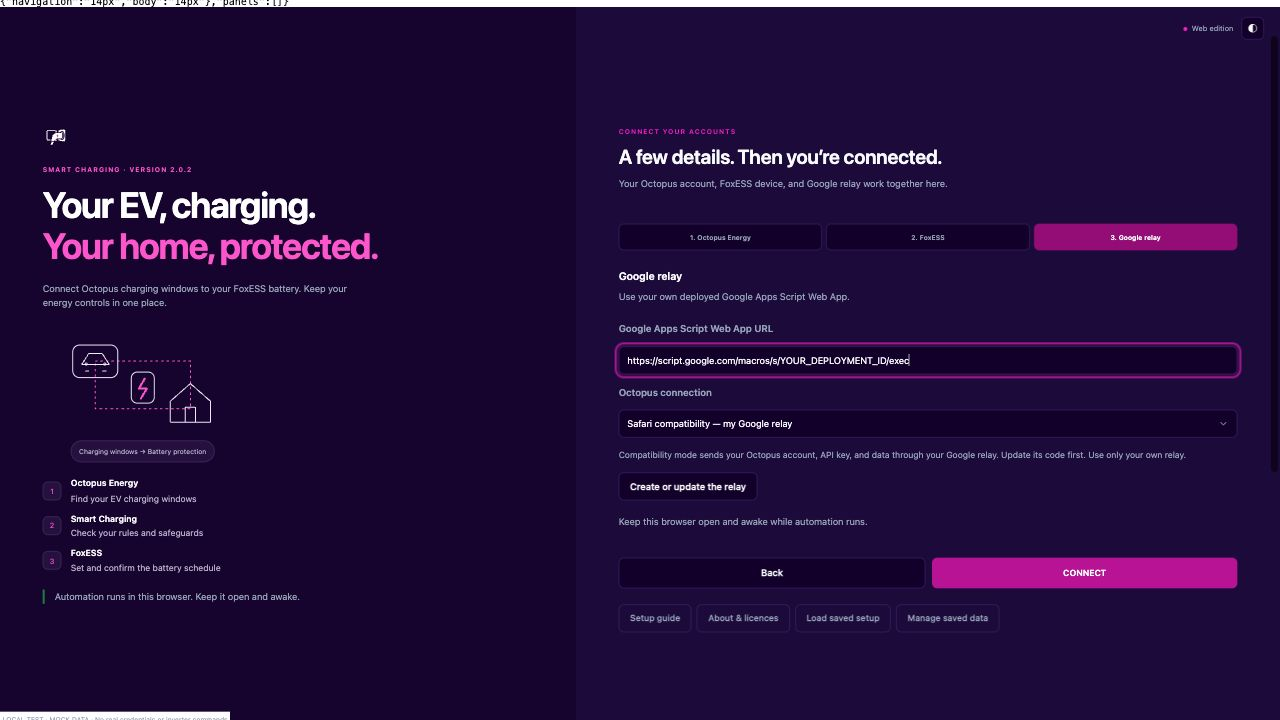
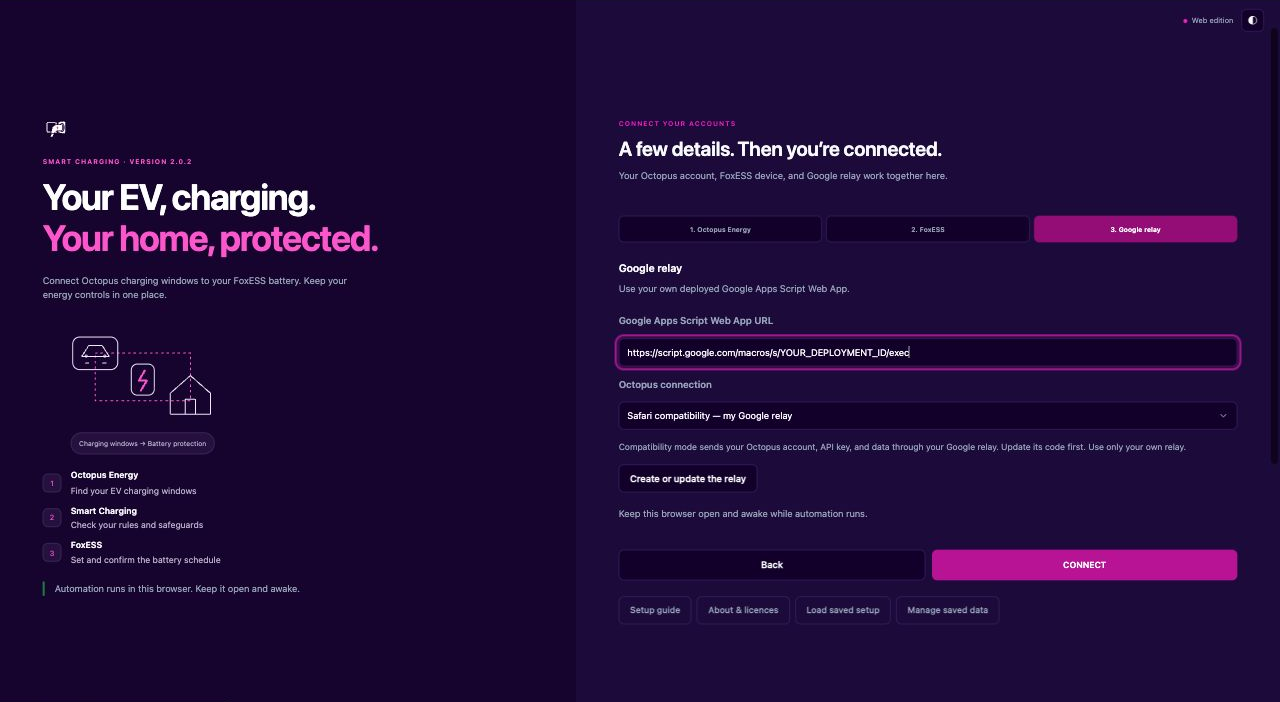
Focus project overview on features and setup, add Pi removal guide

diff --git a/README.md b/README.md
@@ -13,11 +13,10 @@ The dashboard shows the requested schedule beside measured power readings, so yo
 This is free, independent software by **SCKC**, released under **GPL-3.0-or-later**.
 Octopus Energy and FoxESS do not endorse or support this project.
 
-[![Release](https://img.shields.io/github/v/release/samuelkcc/octopus-foxess-smart-charging)](https://github.com/samuelkcc/octopus-foxess-smart-charging/releases/latest)
 [![Licence](https://img.shields.io/badge/licence-GPL--3.0--or--later-blue)](LICENSE)
 [![Open web app](https://img.shields.io/badge/open-web%20app-e11d48)](https://samuelkcc.github.io/octopus-foxess-smart-charging/)
 
-[**Open the web app**](https://samuelkcc.github.io/octopus-foxess-smart-charging/) · [**Download v2.0.2**](https://github.com/samuelkcc/octopus-foxess-smart-charging/releases/tag/v2.0.2)
+[**Open the web app**](https://samuelkcc.github.io/octopus-foxess-smart-charging/) · [**Downloads and release notes**](https://github.com/samuelkcc/octopus-foxess-smart-charging/releases/latest)
 
 ![Smart Charging dashboard with example data](docs/screenshots/web-dashboard.png)
 
@@ -40,42 +39,19 @@ Use one active automation host for each inverter.
 Before testing another edition, select **Disable Pi Service** in native Pi Configuration.
 **Pause automation** stops schedule control but keeps monitoring active.
 
-## Safari compatibility update v2.0.2
+## What the app does
 
-The web edition now offers **Safari compatibility — my Google relay**.
-This routes Octopus requests through your own Google Apps Script deployment when direct Safari access fails.
-Google processes the Octopus credentials and data in this mode.
-Existing setups keep direct access until you select this option.
+- **Protect the home battery.** Follow valid Octopus Smart Dispatch windows and request Force Charge on FoxESS.
+- **Compare schedules and measured power.** Check Octopus charging windows beside the programmed FoxESS schedule and current readings.
+- **Control charging and discharging.** Use price rules, weekly schedules, and battery limits.
+- **Pause app control.** Pause for 6, 12, or 24 hours, or until resumed. Monitoring continues.
+- **Connect remotely.** Open a Pi or Windows dashboard through a protected Cloudflare URL.
+- **Review power history.** Compare four charts, expand a chart, or export a month on Pi and Windows.
+- **Limit storage writes.** Buffer readings in memory, compress monthly files, and remove older history when space is low.
+- **Check API health.** Header badges show connection status and refresh progress. A red border opens retained problem details.
+- **Use desktop or mobile.** Open the same dashboard on a computer, phone, or tablet.
 
-- Update your relay code with the [web guide](docs/WEB-GUIDE.md#update-an-existing-relay).
-- Deploy a new version of the existing Web App.
-- In Smart Charging, open **Modify setup → 3. Google relay**.
-- Select **Safari compatibility — my Google relay**.
-- Select **Connect**.
-
-Pi and Windows keep their existing host connection.
-Actual API rate limits remain active.
-
-![Safari compatibility setup with a demonstration relay URL](docs/screenshots/web-safari-setup.png)
-
-## Maintenance update v2.0.1
-
-- **Update URL** creates a replacement Quick Tunnel address on Pi and Windows. The Remote Access Key stays the same.
-- A **red API badge border** opens problem details. Reviewing or clearing an alert sends no API request.
-- Recovered alerts clear after **24 hours** by default. **Settings → API problem alerts** changes this period.
-- Active failures remain visible until the connection recovers.
-
-## What is new in v2.0.0
-
-- **One interface across desktop and mobile.** Dark and light themes, a compact phone Welcome screen, consistent controls, and an About drawer.
-- **Windows portable app.** The dashboard, local service, worker, and tunnel client run together in one app.
-- **Remote Access.** Open your Pi or Windows dashboard through a random HTTPS URL with a separate 256-bit key.
-- **Power history.** View solar, home demand, grid import/export, battery power, and charge level together. Expand any chart or export a month.
-- **Controlled storage use.** Compressed monthly files, configurable retention, hourly saves, disk-space reporting, and low-space cleanup.
-- **Pause and resume.** Choose 6, 12, or 24 hours, or pause until you resume. A red banner and history entry show the change.
-- **API status and refresh.** Header badges show health and interval progress. Select a badge to request an update.
-- **Retained problem alerts.** A recovered incident stays visible until you clear it or its configured period ends.
-- **Simpler return visits.** Saved web setup opens with Connect. Windows includes account setup instructions and local service controls.
+Version details and changes are listed on each [release download page](https://github.com/samuelkcc/octopus-foxess-smart-charging/releases).
 
 ## Get started
 
@@ -106,9 +82,27 @@ Updates retain the existing configuration and history directory.
 
 ![Native Pi Configuration with demonstration account details](docs/screenshots/pi-configuration.png)
 
+#### Uninstall from Raspberry Pi
+
+Uninstallation removes the app, services, taskbar icon, saved credentials, access keys, and history.
+
+- Save any required history or configuration backups.
+- Open a terminal on the Pi.
+- Run:
+
+```sh
+curl -fsSL https://raw.githubusercontent.com/samuelkcc/octopus-foxess-smart-charging/main/linux/uninstall.sh | sudo sh
+```
+
+- Check the inverter schedule in the FoxESS app after removal.
+
+Uninstallation does not clear the schedule stored on the inverter.
+[Read the Pi removal guide](linux/README-RASPBERRY-PI.md#remove-the-pi-edition).
+
 ### Windows portable
 
-- Download [SmartCharging-2.0.2-Windows-x64.exe](https://github.com/samuelkcc/octopus-foxess-smart-charging/releases/download/v2.0.2/SmartCharging-2.0.2-Windows-x64.exe).
+- Open the [download page](https://github.com/samuelkcc/octopus-foxess-smart-charging/releases/latest).
+- Download the Windows x64 EXE from **Assets**.
 - Open the EXE.
 - Read the licence notice.
 - Select **Accept and Continue**.
@@ -152,6 +146,19 @@ You can also [download the standalone HTML](https://github.com/samuelkcc/octopus
 On later visits, saved setup gives you a Connect button.
 Select **Modify setup** when you need to change a value.
 Keep this browser open and awake while automation runs.
+
+#### Safari connection
+
+If Safari cannot connect directly to Octopus, select **Safari compatibility — my Google relay** during setup.
+This sends Octopus credentials and data through your own Google relay.
+Google processes those requests.
+
+- If your relay uses older code, follow the [relay upgrade guide](docs/WEB-GUIDE.md#update-an-existing-relay).
+- Open **Modify setup → 3. Google relay**.
+- Select **Safari compatibility — my Google relay**.
+- Select **Connect**.
+
+![Safari compatibility setup with a demonstration relay URL](docs/screenshots/web-safari-setup.png)
 
 [Read the complete web and Google relay guide](docs/WEB-GUIDE.md).
 
@@ -255,7 +262,7 @@ Host credentials stay on the Pi or Windows PC.
 The web edition saves encrypted setup in your browser and uses your own Google relay.
 Use one active automation host per inverter.
 
-[GPL-3.0-or-later licence](LICENSE) · [Third-party notices](THIRD_PARTY_NOTICES.md) · [Release notes](RELEASE_NOTES.md)
+[GPL-3.0-or-later licence](LICENSE) · [Third-party notices](THIRD_PARTY_NOTICES.md) · [Release notes](https://github.com/samuelkcc/octopus-foxess-smart-charging/releases)
 
 The optional Live WS module includes Nick Farrell's [foxess-control](https://github.com/nicois/foxess-control) work.
 Company names belong to their owners. This independent software has no warranty.

diff --git a/CHANGELOG.md b/CHANGELOG.md
@@ -17,7 +17,7 @@ This patch adds optional Safari compatibility to the standalone web edition.
 ## Update your Google relay
 
 - Open your existing Apps Script project.
-- Replace its code with the code in the [web guide](docs/WEB-GUIDE.md#create-the-relay).
+- Replace its code with the code in the [web guide](https://github.com/samuelkcc/octopus-foxess-smart-charging/blob/v2.0.2/docs/WEB-GUIDE.md#create-the-relay).
 - Save the project.
 - Select **Deploy → Manage deployments → Edit → New version → Deploy**.
 - Keep the existing Web App URL.
@@ -29,8 +29,16 @@ Google processes Octopus credentials and data when this option is selected.
 Use only your own Google relay.
 Saving Apps Script source alone does not update the deployed Web App.
 
+## Documentation
+
+- The repository overview focuses on functions and setup. Version-specific changes stay on the release download pages.
+- The Safari setup image no longer includes viewport diagnostics or the local test strip.
+- Pi removal instructions explain the command, deleted local data, and retained inverter schedule.
+
 ## Verification
 
+Removal instructions were checked against the script.
+The uninstaller was not executed.
 The full regression suite passes with mock upstream APIs.
 Tests cover relay redirects, Octopus GET/POST, old-code detection, real rate-limit propagation, and unchanged FoxESS command safeguards.
 No test sends a command to a live inverter.

diff --git a/RELEASE_NOTES.md b/RELEASE_NOTES.md
@@ -17,7 +17,7 @@ This patch adds optional Safari compatibility to the standalone web edition.
 ## Update your Google relay
 
 - Open your existing Apps Script project.
-- Replace its code with the code in the [web guide](docs/WEB-GUIDE.md#create-the-relay).
+- Replace its code with the code in the [web guide](https://github.com/samuelkcc/octopus-foxess-smart-charging/blob/v2.0.2/docs/WEB-GUIDE.md#create-the-relay).
 - Save the project.
 - Select **Deploy → Manage deployments → Edit → New version → Deploy**.
 - Keep the existing Web App URL.
@@ -29,8 +29,16 @@ Google processes Octopus credentials and data when this option is selected.
 Use only your own Google relay.
 Saving Apps Script source alone does not update the deployed Web App.
 
+## Documentation
+
+- The repository overview focuses on functions and setup. Version-specific changes stay on the release download pages.
+- The Safari setup image no longer includes viewport diagnostics or the local test strip.
+- Pi removal instructions explain the command, deleted local data, and retained inverter schedule.
+
 ## Verification
 
+Removal instructions were checked against the script.
+The uninstaller was not executed.
 The full regression suite passes with mock upstream APIs.
 Tests cover relay redirects, Octopus GET/POST, old-code detection, real rate-limit propagation, and unchanged FoxESS command safeguards.
 No test sends a command to a live inverter.

diff --git a/linux/README-RASPBERRY-PI.md b/linux/README-RASPBERRY-PI.md
@@ -264,7 +264,7 @@ sudo systemctl restart octopus-foxess octopus-foxess-worker octopus-foxess-inhib
 
 ## Remove the Pi edition
 
-Uninstallation removes the application, services, credentials, access code, and history data.
+Uninstallation removes the application, services, taskbar icon, saved credentials, access keys, and history data.
 
 1. Save any required history or configuration backups.
 2. Run this command:
@@ -272,6 +272,11 @@ Uninstallation removes the application, services, credentials, access code, and 
 ```bash
 curl -fsSL https://raw.githubusercontent.com/samuelkcc/octopus-foxess-smart-charging/main/linux/uninstall.sh | sudo sh
 ```
+
+3. Check the inverter schedule in the FoxESS app after removal.
+
+Uninstallation does not clear the schedule stored on the inverter.
+Installed system dependencies are not removed.
 
 ## Pause schedule control
 

diff --git a/docs/screenshots/README.md b/docs/screenshots/README.md
@@ -3,6 +3,7 @@
 Updated on 27 October 2026 for version 2.0.2.
 
 - Interface screenshots use dark appearance.
+- Published images omit viewport diagnostics and local test overlays.
 - The project owner supplied the four-phone mobile Remote Access montage.
 - That montage shows Welcome, remote sign-in, Overview, and History.
 - Other dashboard views use local mock services and demonstration values.
